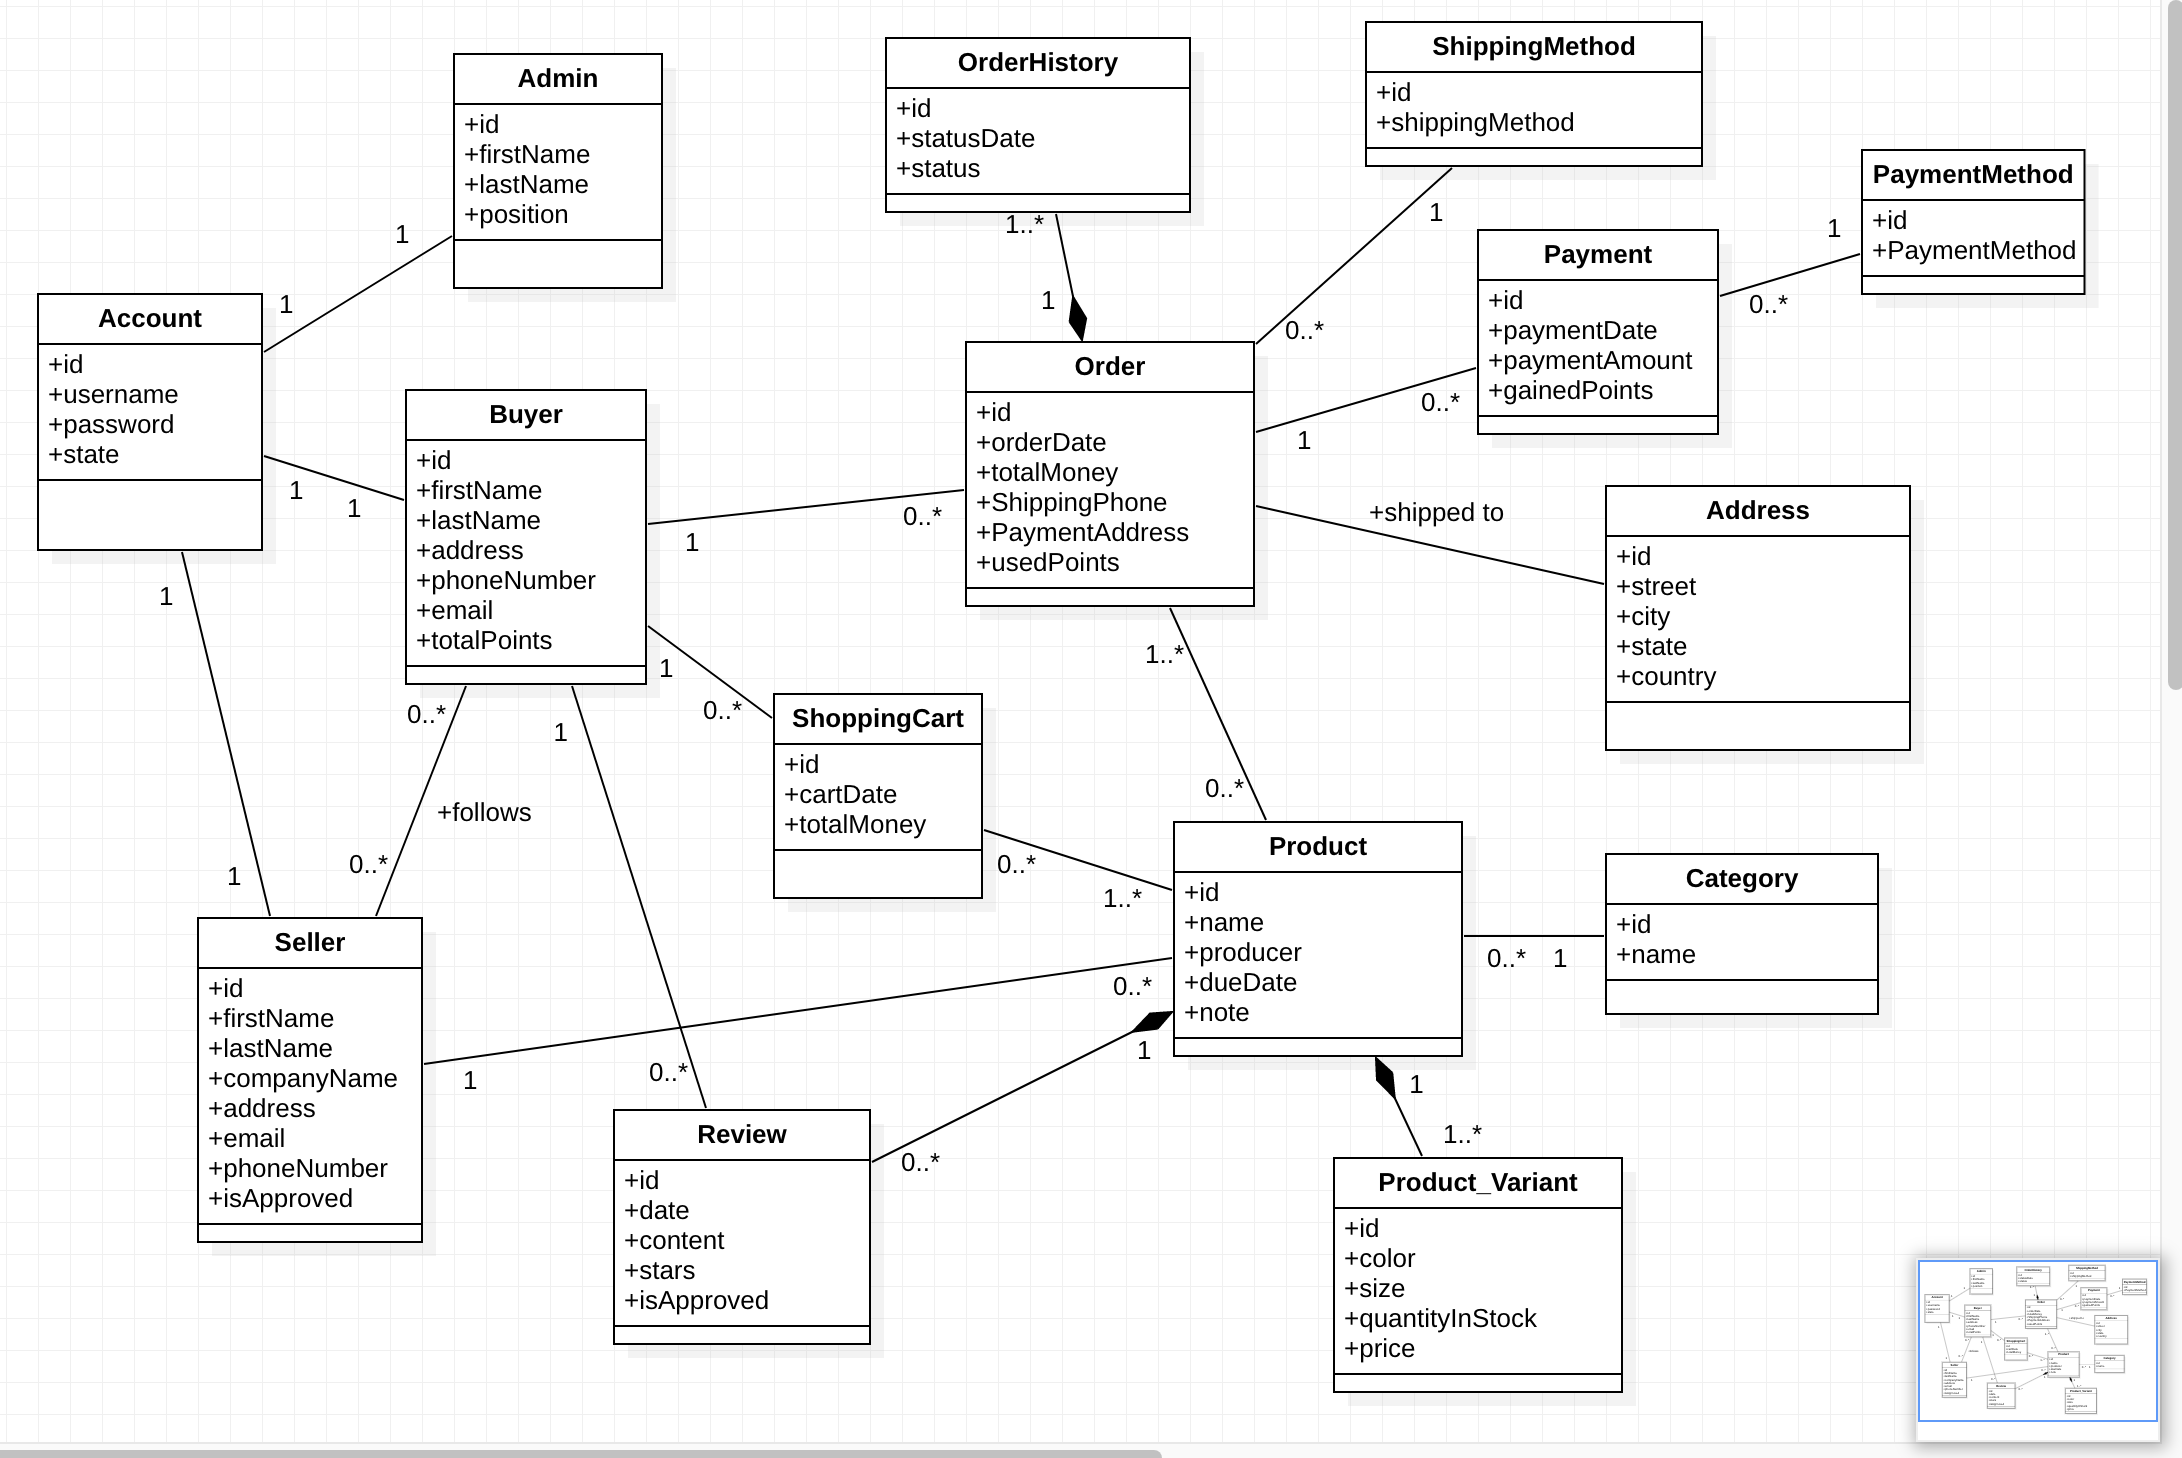
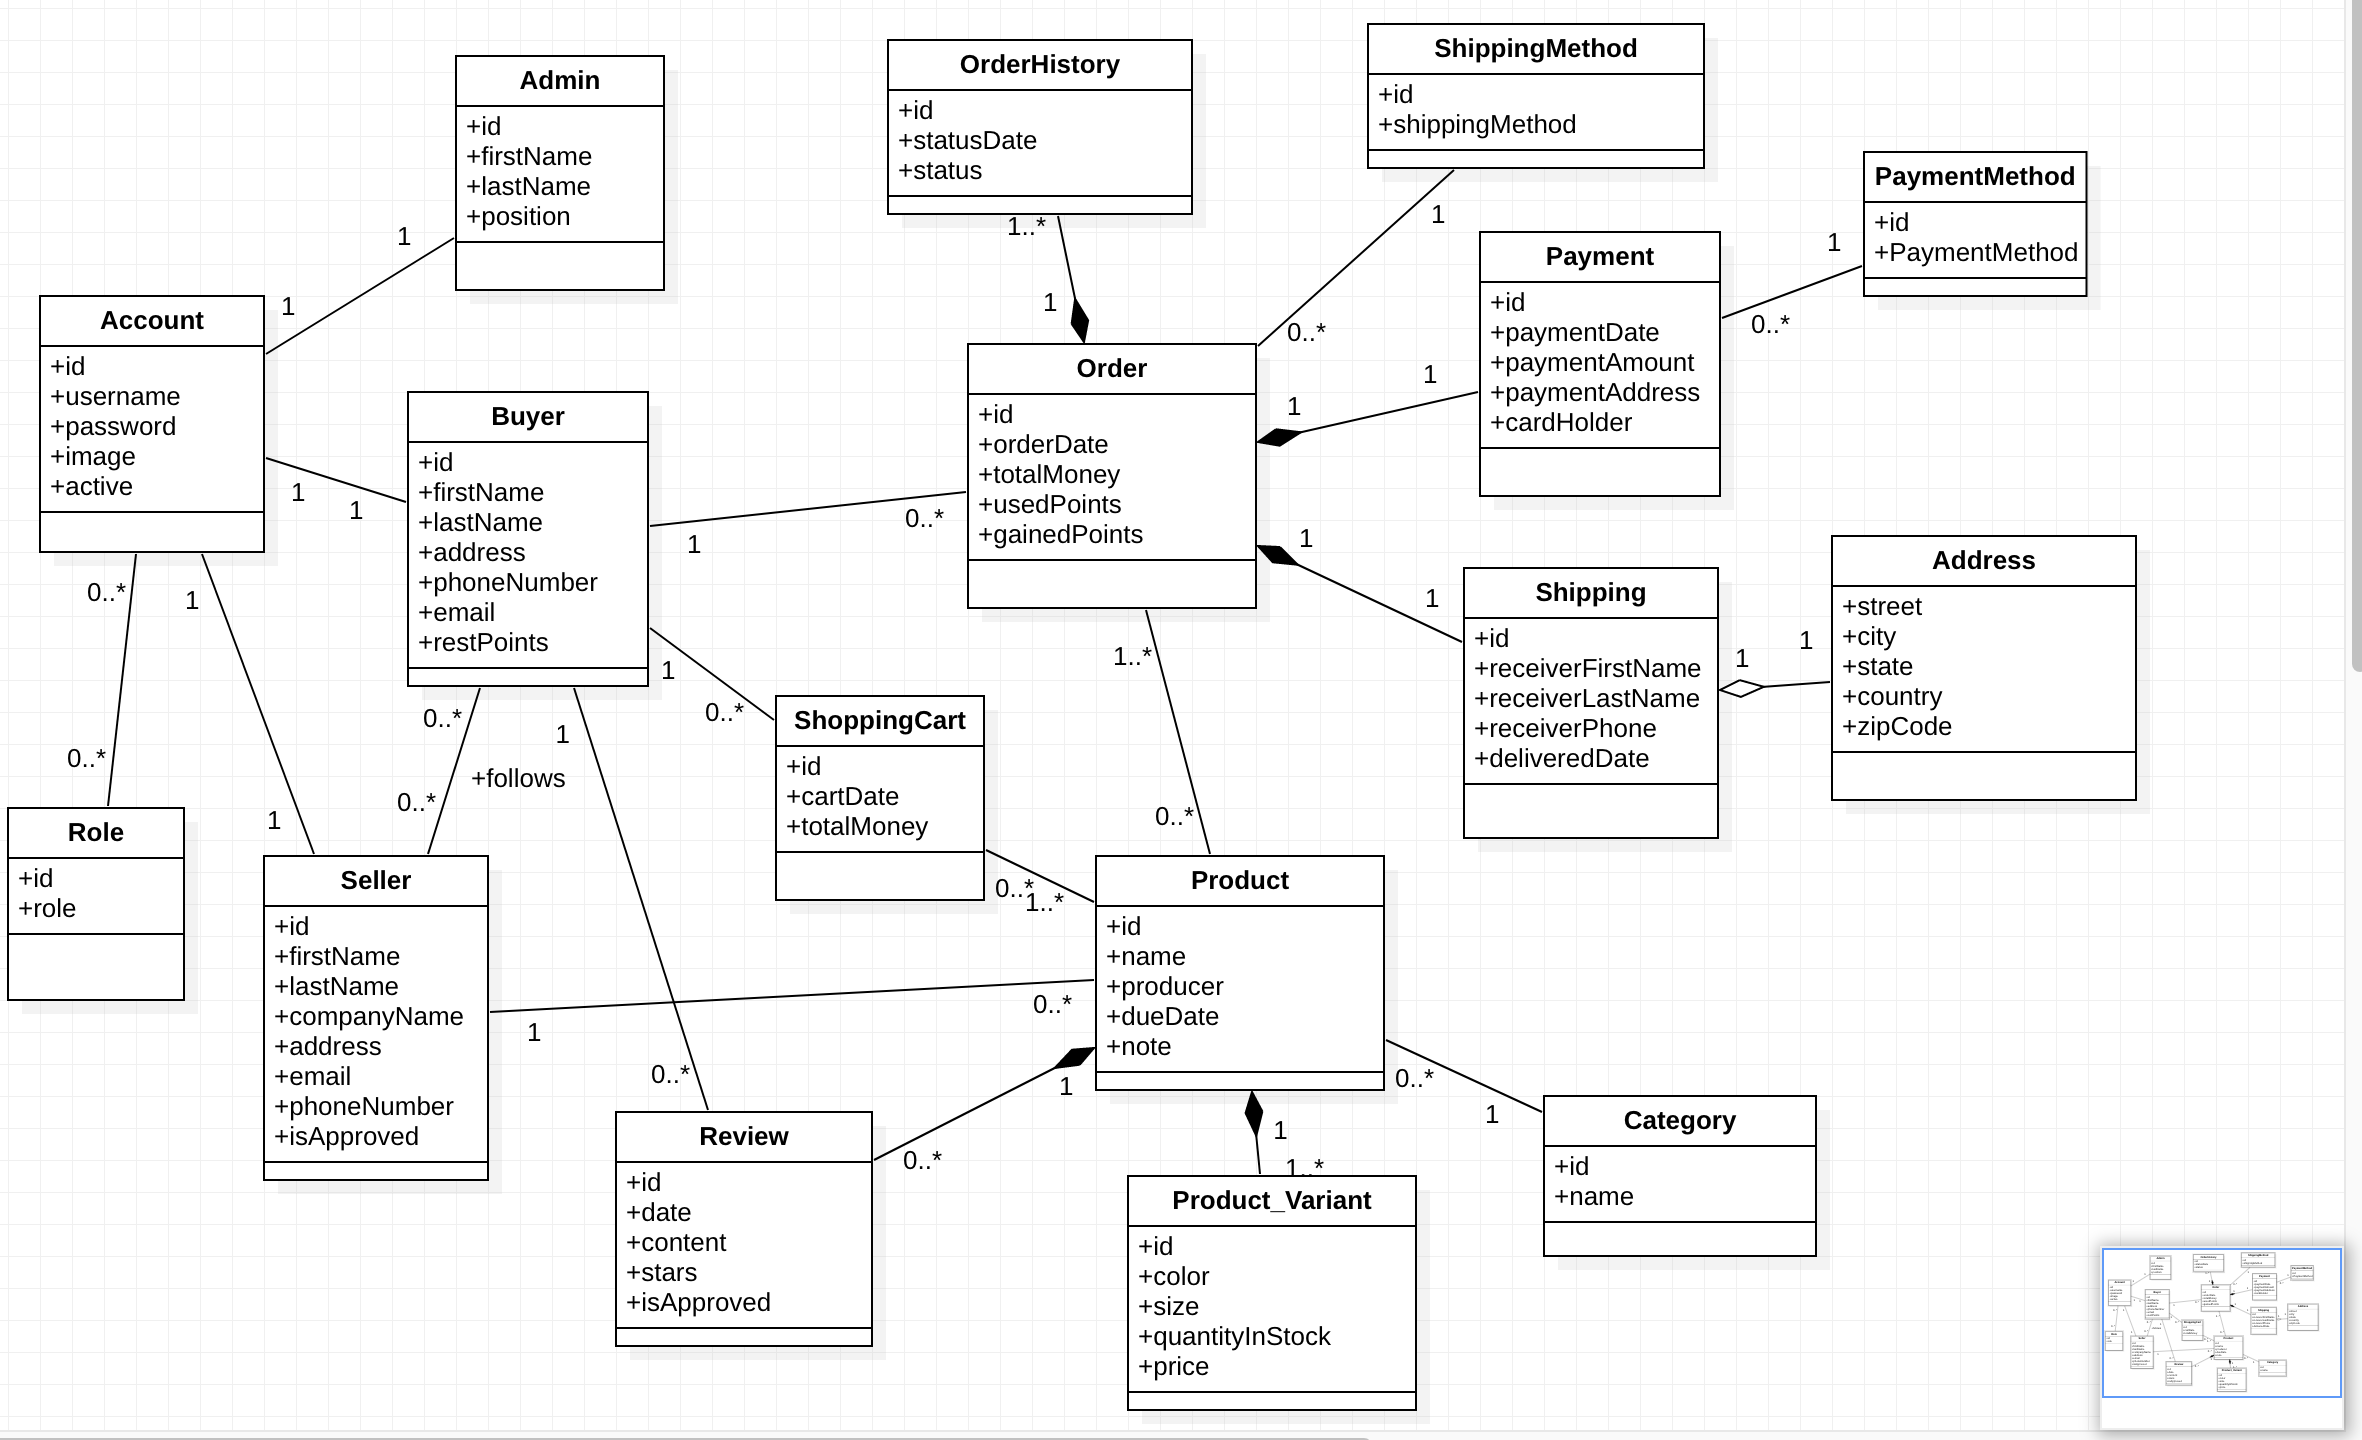
Created some domain classes

diff --git a/FinalProject/eCommerce/src/main/java/miu/edu/ecommerce/domain/Seller.java b/FinalProject/eCommerce/src/main/java/miu/edu/ecommerce/domain/Seller.java
@@ -1,0 +1,47 @@
+package miu.edu.ecommerce.domain;
+
+import lombok.AllArgsConstructor;
+import lombok.Data;
+import lombok.NoArgsConstructor;
+
+import javax.persistence.*;
+import java.io.Serializable;
+import java.util.Set;
+
+@Data
+@AllArgsConstructor
+@NoArgsConstructor
+@Entity
+@Table(name = "seller")
+public class Seller implements Serializable {
+    @Id
+    @GeneratedValue(strategy = GenerationType.IDENTITY)
+    @Column(name = "seller_id", nullable = false)
+    private int id;
+
+    @Column(name = "first_name", nullable = false)
+    private String firstName;
+
+    @Column(name = "last_name", nullable = false)
+    private String lastName;
+
+    @Column(name = "company_number")
+    private String companyName;
+
+    @Column(name = "phone_number")
+    private String phoneNumber;
+
+    @Column(name = "email")
+    private String email;
+
+    @Column(name = "is_approved")
+    private boolean isApproved;
+
+    @Embedded
+    private Address address;
+
+    @OneToOne(cascade = CascadeType.ALL, fetch = FetchType.EAGER)
+    @JoinColumn(name="account_id")
+    Account account;
+
+}

diff --git a/FinalProject/eCommerce/src/main/java/miu/edu/ecommerce/domain/Buyer.java b/FinalProject/eCommerce/src/main/java/miu/edu/ecommerce/domain/Buyer.java
@@ -1,0 +1,44 @@
+package miu.edu.ecommerce.domain;
+
+import lombok.AllArgsConstructor;
+import lombok.Data;
+import lombok.NoArgsConstructor;
+
+import javax.persistence.*;
+import java.io.Serializable;
+import java.util.Set;
+
+@Data
+@AllArgsConstructor
+@NoArgsConstructor
+@Entity
+@Table(name = "buyer")
+public class Buyer implements Serializable {
+    @Id
+    @GeneratedValue(strategy = GenerationType.IDENTITY)
+    @Column(name = "buyer_id", nullable = false)
+    private int id;
+
+    @Column(name = "first_name", nullable = false)
+    private String firstName;
+
+    @Column(name = "last_name", nullable = false)
+    private String lastName;
+
+    @Column(name = "phone_number")
+    private String phoneNumber;
+
+    @Column(name = "email")
+    private String email;
+
+    @Column(name = "rest_points")
+    private int restPoints;
+
+    @Embedded
+    private Address address;
+
+    @OneToOne(cascade = CascadeType.ALL, fetch = FetchType.EAGER)
+    @JoinColumn(name="account_id")
+    Account account;
+
+}

diff --git a/FinalProject/eCommerce/src/main/java/miu/edu/ecommerce/domain/Account.java b/FinalProject/eCommerce/src/main/java/miu/edu/ecommerce/domain/Account.java
@@ -1,0 +1,35 @@
+package miu.edu.ecommerce.domain;
+
+import lombok.AllArgsConstructor;
+import lombok.Data;
+import lombok.NoArgsConstructor;
+
+import javax.persistence.*;
+import java.io.Serializable;
+import java.util.Set;
+
+@Data
+@AllArgsConstructor
+@NoArgsConstructor
+@Entity
+@Table(name = "account")
+public class Account implements Serializable {
+    @Id
+    @GeneratedValue(strategy = GenerationType.IDENTITY)
+    @Column(name = "account_id", nullable = false)
+    private int id;
+
+    @Column(name = "username", nullable = false)
+    private String username;
+
+    @Column(name = "password", nullable = false)
+    private String password;
+
+    @Column(name = "active", nullable = false)
+    private boolean active;
+
+    @ManyToMany(cascade = CascadeType.ALL, fetch = FetchType.EAGER)
+    @JoinTable(name = "account_role", joinColumns = @JoinColumn(name = "account_id", nullable = false), inverseJoinColumns = @JoinColumn(name = "role_id", nullable = false))
+    private Set<Role> roles;
+
+}

diff --git a/FinalProject/eCommerce/src/main/java/miu/edu/ecommerce/domain/Admin.java b/FinalProject/eCommerce/src/main/java/miu/edu/ecommerce/domain/Admin.java
@@ -1,0 +1,35 @@
+package miu.edu.ecommerce.domain;
+
+import lombok.AllArgsConstructor;
+import lombok.Data;
+import lombok.NoArgsConstructor;
+
+import javax.persistence.*;
+import java.io.Serializable;
+import java.util.Set;
+
+@Data
+@AllArgsConstructor
+@NoArgsConstructor
+@Entity
+@Table(name = "admin")
+public class Admin implements Serializable {
+    @Id
+    @GeneratedValue(strategy = GenerationType.IDENTITY)
+    @Column(name = "admin_id", nullable = false)
+    private int id;
+
+    @Column(name = "first_name", nullable = false)
+    private String firstName;
+
+    @Column(name = "last_name", nullable = false)
+    private String lastName;
+
+    @Column(name = "position")
+    private String position;
+
+    @OneToOne(cascade = CascadeType.ALL, fetch = FetchType.EAGER)
+    @JoinColumn(name="account_id")
+    Account account;
+
+}

diff --git a/FinalProject/eCommerce/src/main/java/miu/edu/ecommerce/domain/Role.java b/FinalProject/eCommerce/src/main/java/miu/edu/ecommerce/domain/Role.java
@@ -1,0 +1,24 @@
+package miu.edu.ecommerce.domain;
+
+import lombok.AllArgsConstructor;
+import lombok.Data;
+import lombok.NoArgsConstructor;
+
+import javax.persistence.*;
+import java.io.Serializable;
+
+@Data
+@AllArgsConstructor
+@NoArgsConstructor
+@Entity
+@Table(name = "role")
+public class Role implements Serializable {
+    @Id
+    @GeneratedValue(strategy = GenerationType.AUTO)
+    @Column(name = "role_id")
+    private int id;
+
+    @Column(name = "role")
+    private String role;
+
+}

diff --git a/FinalProject/eCommerce/src/main/java/miu/edu/ecommerce/domain/Address.java b/FinalProject/eCommerce/src/main/java/miu/edu/ecommerce/domain/Address.java
@@ -1,0 +1,14 @@
+package miu.edu.ecommerce.domain;
+
+import javax.persistence.Embeddable;
+import java.io.Serializable;
+
+@Embeddable
+public class Address implements Serializable {
+    private String street;
+    private String city;
+    private String state;
+    private String country;
+    private String zipCode;
+
+}

diff --git a/FinalProject/eCommerce/src/main/java/miu/edu/ecommerce/domain/Product.java b/FinalProject/eCommerce/src/main/java/miu/edu/ecommerce/domain/Product.java
@@ -1,0 +1,6 @@
+package miu.edu.ecommerce.domain;
+
+import java.io.Serializable;
+
+public class Product implements Serializable {
+}
